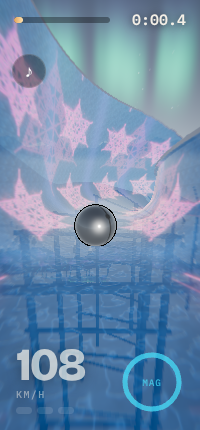
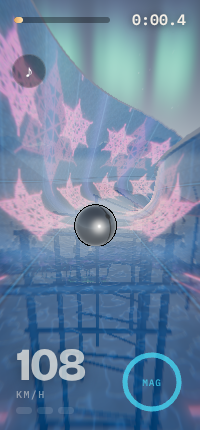
Contrast: deeper Snow and Stone tints, stronger contour lines; glass without iridescence
Claude-Session: https://claude.ai/code/session_01YEyJbfbauqufbe5QZuJCsT

diff --git a/src/render/fractal.ts b/src/render/fractal.ts
@@ -405,7 +405,7 @@ export function applyFractal(mat: Material, theme: FractalTheme, centerAcross: n
     sh.vertexShader = 'attribute vec2 fxuv;\nattribute vec4 fxmode;\nvarying vec2 vFxUv;\nvarying vec4 vFxMode;\n' + sh.vertexShader.replace('#include <uv_vertex>', '#include <uv_vertex>\n vFxUv = fxuv; vFxMode = fxmode;');
     // inside a tube the wood itself goes dark so the projection owns the walls (dome-screen look)
     sh.fragmentShader = GLSL + sh.fragmentShader
-      .replace('#include <map_fragment>', '#include <map_fragment>\n float fxLum = max(dot(diffuseColor.rgb, vec3(0.3, 0.59, 0.11)), 1e-3); diffuseColor.rgb *= mix(1.0, min(1.0, 0.045 / fxLum), vFxMode.w);\n diffuseColor.a = mix(diffuseColor.a, 1.0, vFxMode.w); // see-through gutters become projection screens inside tubes\n vec3 fxE = fxEdges(); diffuseColor.rgb *= 1.0 - uFxEdge * (0.55 * fxE.x + 0.3 * fxE.y + 0.22 * fxE.z);')
+      .replace('#include <map_fragment>', '#include <map_fragment>\n float fxLum = max(dot(diffuseColor.rgb, vec3(0.3, 0.59, 0.11)), 1e-3); diffuseColor.rgb *= mix(1.0, min(1.0, 0.045 / fxLum), vFxMode.w);\n diffuseColor.a = mix(diffuseColor.a, 1.0, vFxMode.w); // see-through gutters become projection screens inside tubes\n vec3 fxE = fxEdges(); diffuseColor.rgb *= 1.0 - uFxEdge * (0.7 * fxE.x + 0.35 * fxE.y + 0.28 * fxE.z);')
       .replace('#include <lights_fragment_end>', '#include <lights_fragment_end>\n reflectedLight.indirectSpecular *= 1.0 - 0.9 * vFxMode.w; reflectedLight.directSpecular *= 1.0 - 0.7 * vFxMode.w;')
       .replace('#include <emissivemap_fragment>', '#include <emissivemap_fragment>\n totalEmissiveRadiance += fxColor();')
       // real-glass gutters stop being see-through inside tubes (the projection owns the walls)

diff --git a/src/physics/materials.ts b/src/physics/materials.ts
@@ -210,7 +210,7 @@ export const MATERIALS: Record<string, MaterialProfile> = {
       seamGain: 0.45, reverb: 0.45,
     },
     haptic: { rollTexture: 0.15, seamPulse: 6, impactScale: 1.2 },
-    visual: { surface: 'marble', tint: 0xece6dc, roughness: 0.12, metalness: 0, sky: sky(3, 1.4, 30, 130), fog: 0xe6dcc8, fogDensity: 0.0032, ground: 0xb8a888, scenery: 'temple' },
+    visual: { surface: 'marble', tint: 0xcfc3ae, roughness: 0.12, metalness: 0, sky: sky(3, 1.4, 30, 130), fog: 0xe6dcc8, fogDensity: 0.0032, ground: 0xb8a888, scenery: 'temple' },
   },
   grating: {
     id: 'grating', name: 'Steel Grating',
@@ -240,7 +240,7 @@ export const MATERIALS: Record<string, MaterialProfile> = {
       seamGain: 0, reverb: 0.2,
     },
     haptic: { rollTexture: 0.3, seamPulse: 0, impactScale: 0.5 },
-    visual: { surface: 'snow', tint: 0xcdd6e0, roughness: 0.92, metalness: 0, sky: sky(3, 2.2, 20, 150), fog: 0xe6edf3, fogDensity: 0.005, ground: 0xf0f4f8, scenery: 'alpine' },
+    visual: { surface: 'snow', tint: 0xa3b4ca, roughness: 0.92, metalness: 0, sky: sky(3, 2.2, 20, 150), fog: 0xe6edf3, fogDensity: 0.005, ground: 0xf0f4f8, scenery: 'alpine' },
   },
 };
 

diff --git a/src/render/trackMesh.ts b/src/render/trackMesh.ts
@@ -25,7 +25,7 @@ export function buildTrackGroup(track: Track, mat: MaterialProfile, groundHeight
     ? new MeshPhysicalMaterial({
       color: 0xffffff, roughness: 0.04, metalness: 0, transmission: 1, thickness: 0.9, ior: 1.5,
       attenuationColor: new Color(vis.tint).multiplyScalar(0.55), attenuationDistance: 2.2,
-      clearcoat: 1, clearcoatRoughness: 0.03, specularIntensity: 1, iridescence: 0.35, iridescenceIOR: 1.3,
+      clearcoat: 1, clearcoatRoughness: 0.03, specularIntensity: 1,
       side: DoubleSide, normalMap: maps.normalMap, envMapIntensity: 1.4,
     })
     : glass
